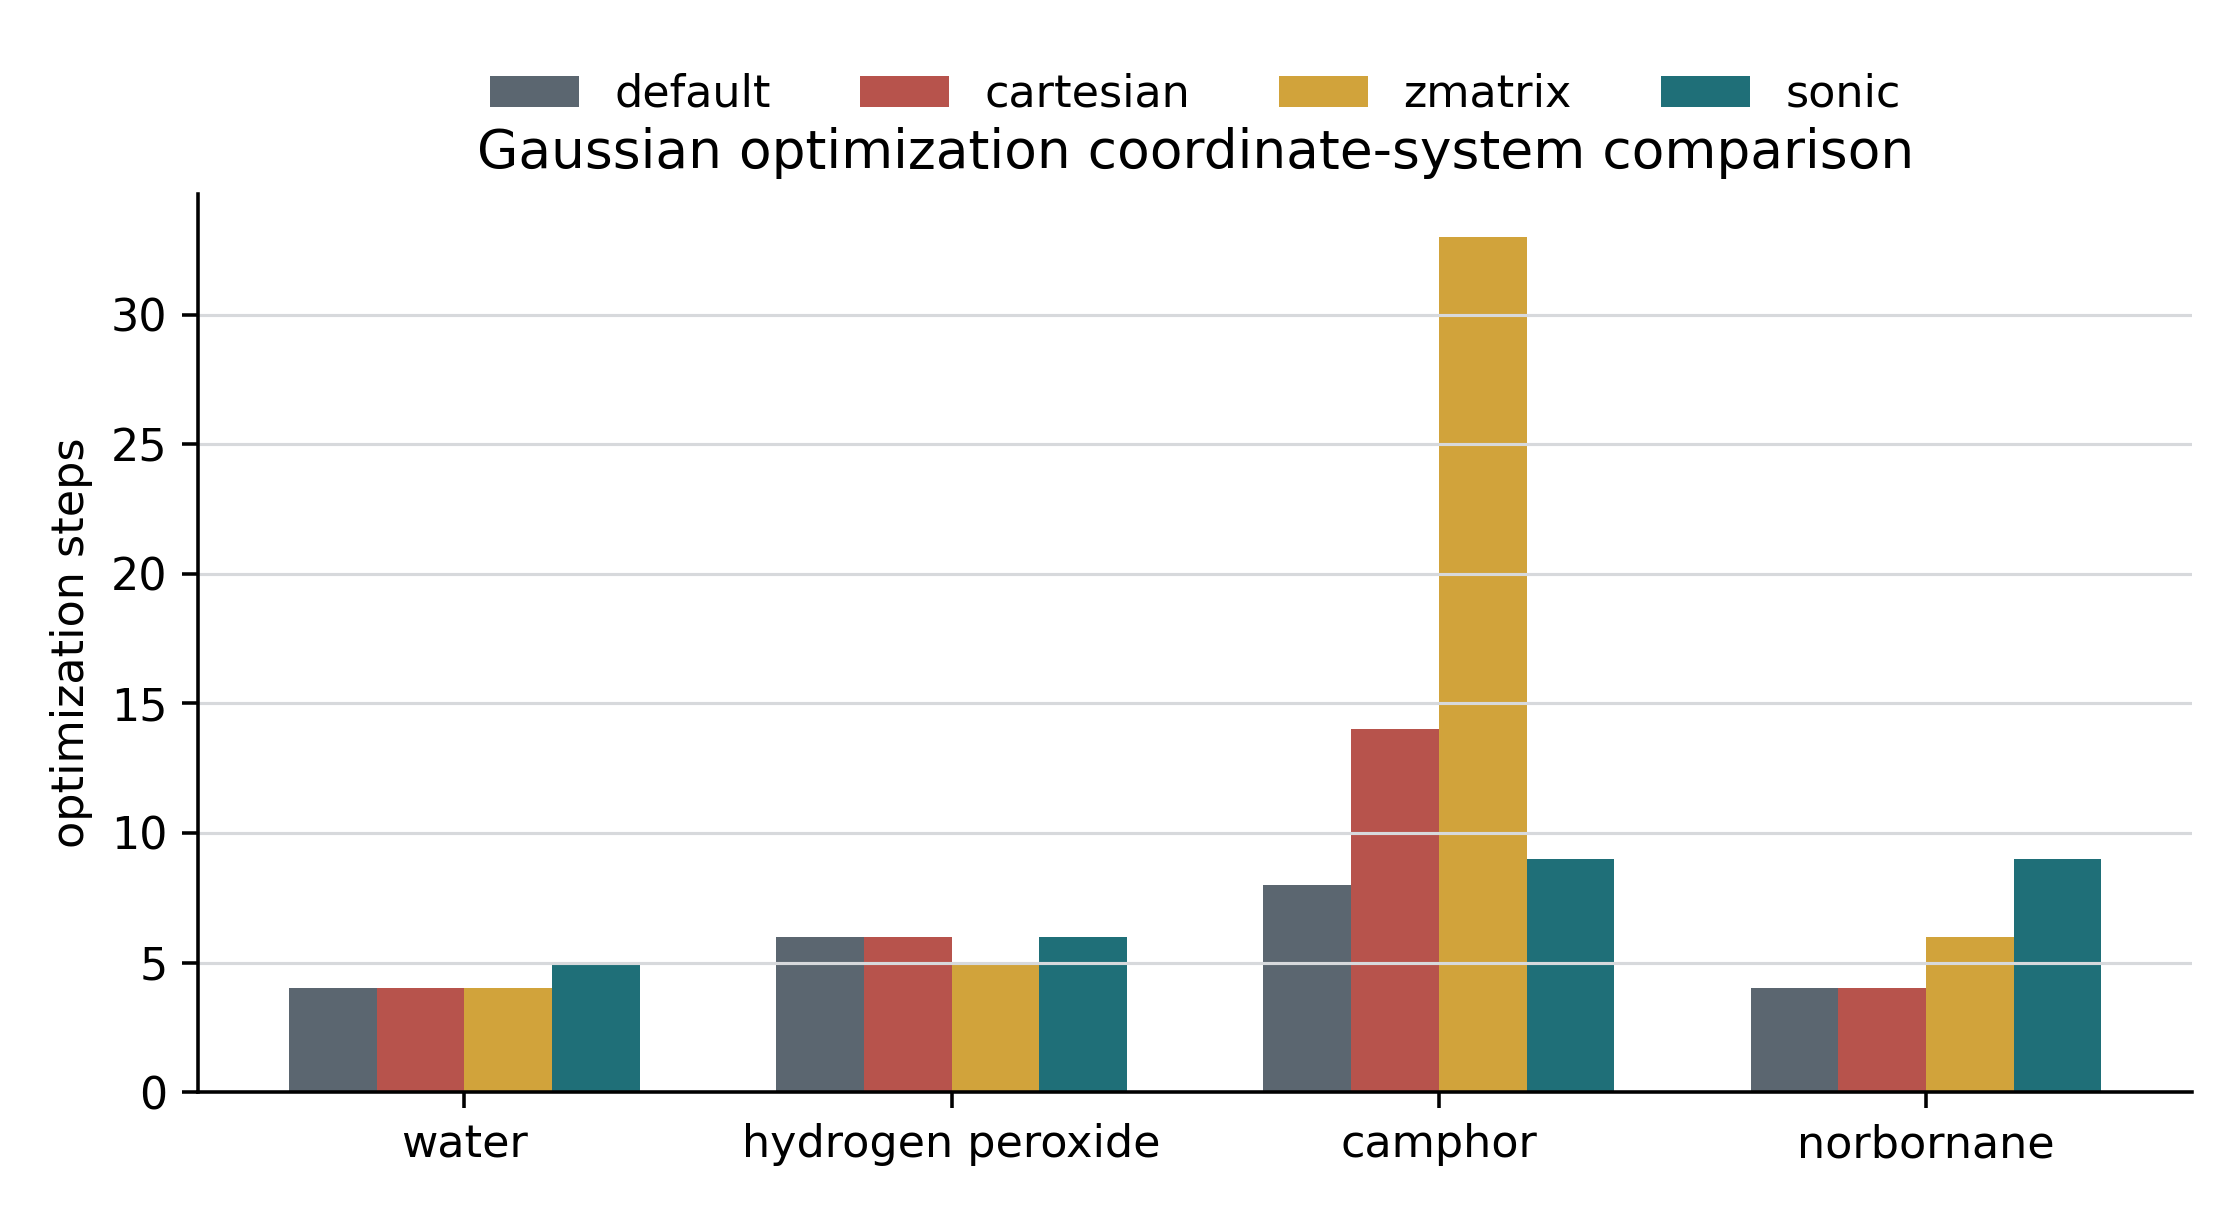
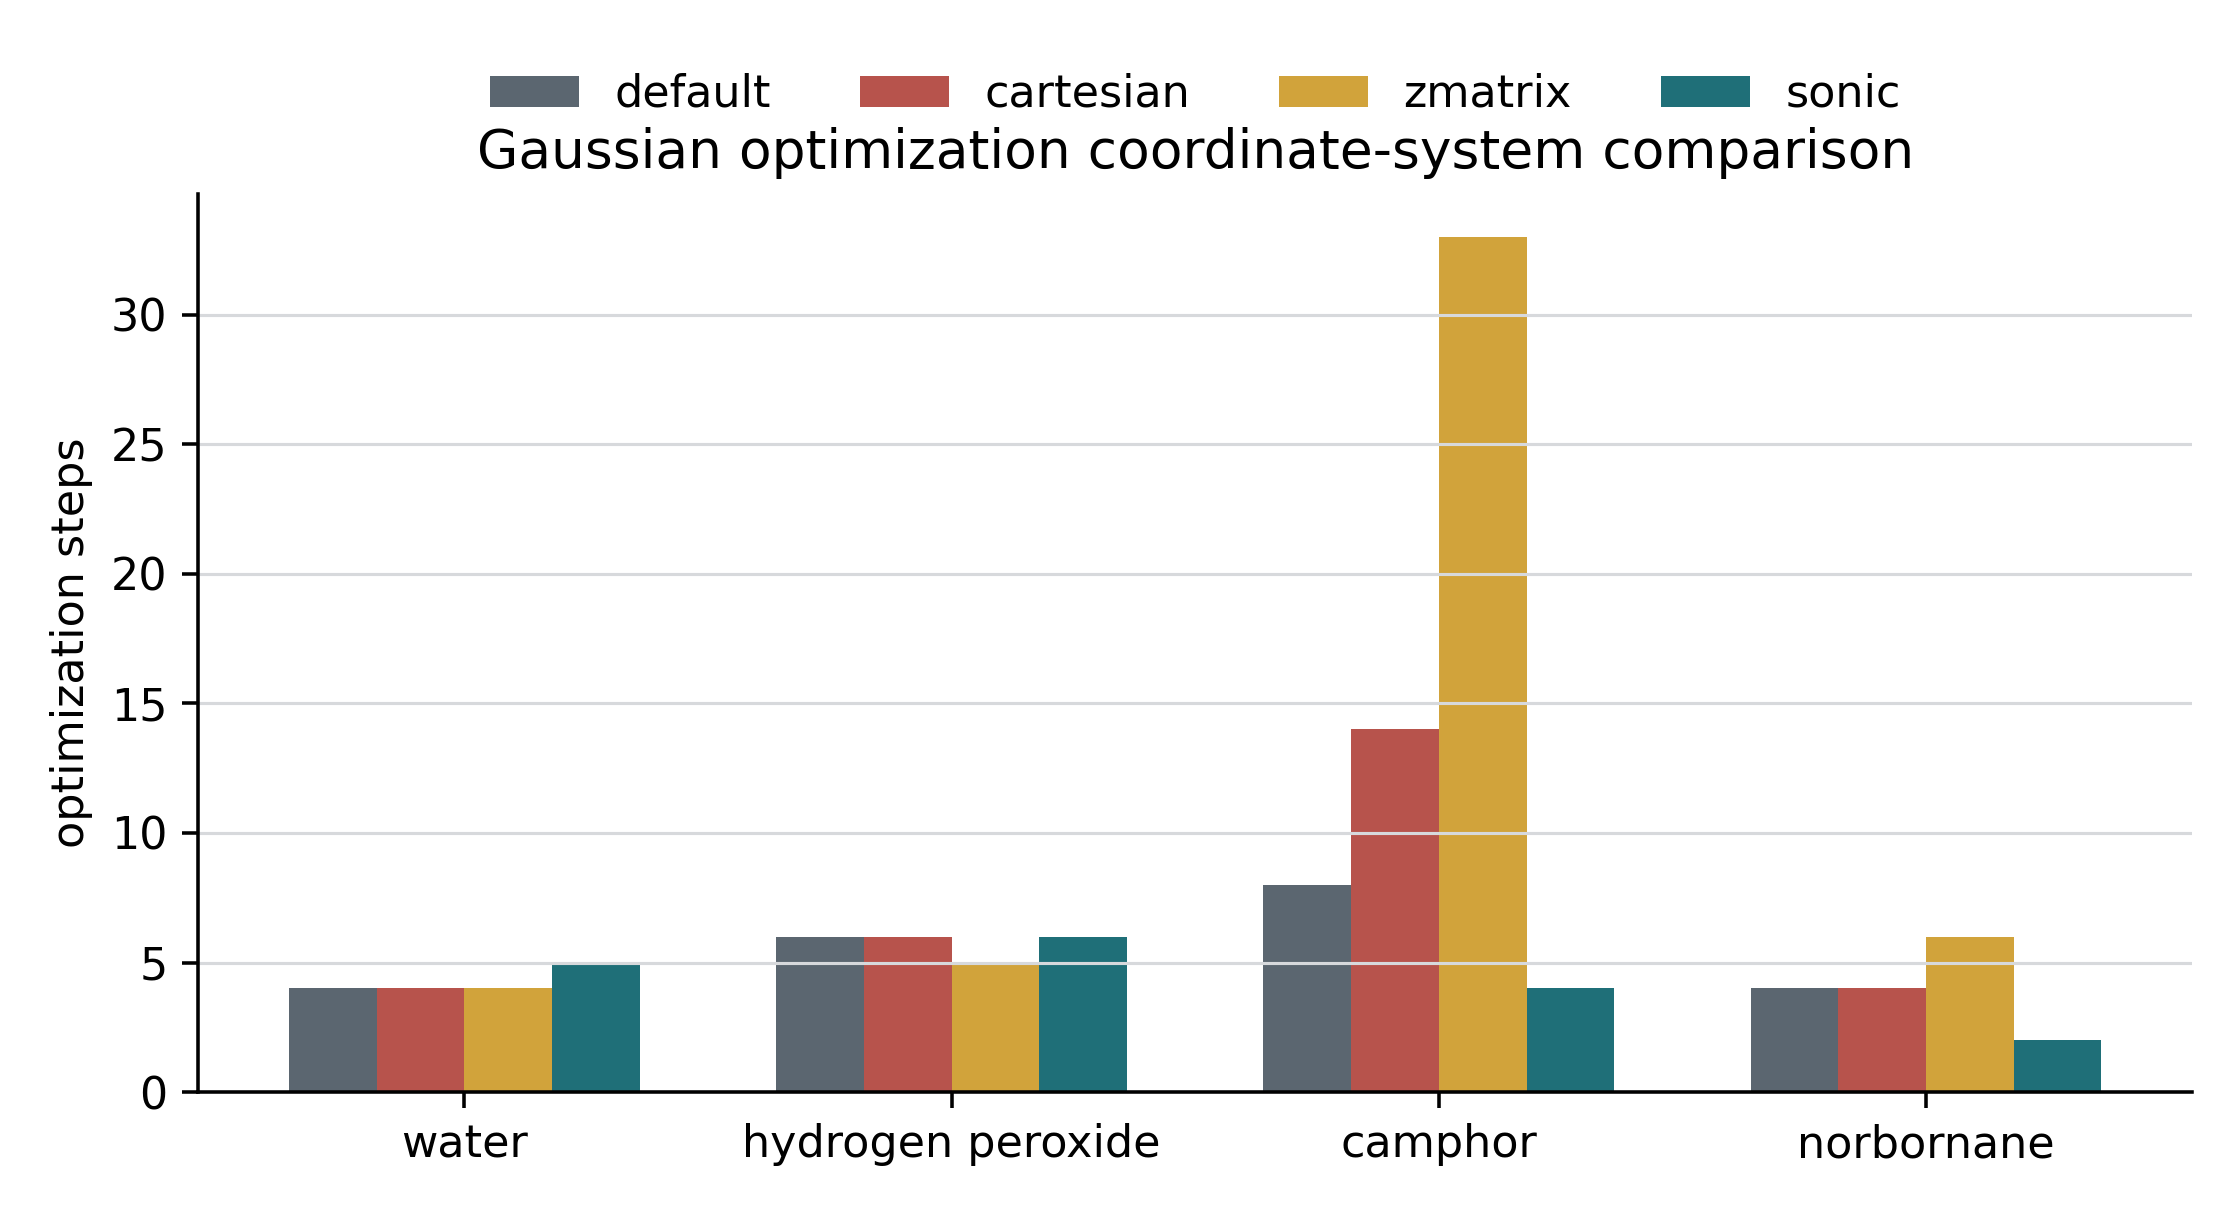
Clarify G16 SONIC compatibility validation

Changed region(s): [[0.875, 0.6875, 0.9375, 0.875], [0.6562, 0.6875, 0.7188, 0.8125]]

diff --git a/main.tex b/main.tex
@@ -9,6 +9,7 @@
 \usetikzlibrary{arrows.meta,calc,positioning}
 
 \providecommand{\href}[2]{#2}
+\providecommand{\url}[1]{#1}
 \providecommand{\keywords}[1]{\par\noindent\textbf{Keywords: }#1\par}
 \makeatletter
 \@ifundefined{tocentry}{%
@@ -1489,18 +1490,22 @@ ring and cage coordinates while remaining small enough for repeated external
 checks.  The native \SONIC\ contract uses signed out-of-plane rows and
 block-local multi-dihedral \(RPck\) puckering rows.  Those rows have been
 validated with a development Gaussian implementation that supports them as
-active variables.  Commercial Gaussian 16 has a documented limitation for
-active generic GICs that combine multiple periodic dihedrals, and it has no
-native \(U\) out-of-plane primitive.  The commercial \texttt{ReadAllGIC}
-export therefore uses a compatibility profile: \(U\) rows are replaced by the
-corresponding Gaussian improper dihedrals, multi-dihedral \SONIC\ rows are kept
-as inactive diagnostics, and all component \(D(\cdots)\) terms are added as
-active redundant periodic coordinates.  After the Gaussian optimization, the
-optimized geometry is evaluated again in the frozen non-redundant \SONIC\
-contract.  The calculations reported here used Gaussian 16 at HF/STO-3G.
+active variables.  Commercial Gaussian 16 has no native \(U\) out-of-plane
+primitive, and the official Gaussian GIC documentation warns that active
+generic coordinates combining multiple periodic dihedrals can behave poorly
+because the periodicity of the component torsions is not applied inside the
+composite expression.\cite{GaussianGICManual}  The commercial
+\texttt{ReadAllGIC} export therefore uses a compatibility profile only when the
+\texttt{g16} option is requested: \(U\) rows are replaced by the corresponding
+Gaussian improper dihedrals, multi-dihedral \SONIC\ rows are not written to the
+Gaussian input, and all component \(D(\cdots)\) terms are added as active
+redundant periodic coordinates.  After the Gaussian optimization, \SMITH\ reads
+the optimized Cartesian structure and evaluates it again in the frozen
+non-redundant \SONIC\ contract.  The calculations reported here used Gaussian
+16 at HF/STO-3G.
 
 The relevant observations are that Gaussian 16 accepts the automatically
-generated coordinate block and reaches a stationary point in three to nine
+generated coordinate block and reaches a stationary point in two to five
 steps for saturated ring and cage systems with different symmetry and rank.
 
 \begin{table}[htbp]
@@ -1516,7 +1521,7 @@ left blank.}
 System & PG & \SONIC\ rank & Gaussian \(NTRed/NRank\) & Steps & \(E_\mathrm{final}\) / \(E_h\) \\
 \midrule
 Cyclohexane & \(D_{3d}\) & 48/48 & -- & 5 & \(-231.482671171\) \\
-Norbornane & \(C_{2v}\) & 51/51 & -- & 9 & \(-268.893823819\) \\
+Norbornane & \(C_{2v}\) & 51/51 & -- & 2 & \(-268.893823525\) \\
 Cubane & \(O_h\) & 42/42 & -- & 3 & \(-303.781399977\) \\
 \bottomrule
 \end{tabular}
@@ -1546,9 +1551,9 @@ that Gaussian can optimize from it using the commercial \texttt{ReadAllGIC}
 parser.  At HF/STO-3G, water and hydrogen peroxide give the same or nearly the
 same iteration counts across the tested coordinate choices.  Norbornane
 converges in four steps with Gaussian redundant internals and Cartesians, six
-steps with a sequential Z matrix and nine steps with the automatically
+steps with a sequential Z matrix and two steps with the automatically
 generated \SONIC\ block.  Camphor converges in eight steps with Gaussian
-redundant internals, 14 Cartesian steps, nine \SONIC\ compatibility steps and 33 steps for a
+redundant internals, 14 Cartesian steps, four \SONIC\ compatibility steps and 33 steps for a
 sequential Z matrix.  Table~\ref{tab:gaussian-coordinate-comparison} gives the
 numerical values plotted in Fig.~\ref{fig:gaussian-coordinate-comparison}, so
 the prose, table and figure refer to the same diagnostic set.  The point of this
@@ -1573,8 +1578,8 @@ System & PG & \SONIC\ rank & Default & Cartesian & Z matrix & \SONIC \\
 \midrule
 Water & \(C_{2v}\) & 3/3 & 4 & 4 & 4 & 5 \\
 Hydrogen peroxide & \(D_{2h}\) & 6/6 & 6 & 6 & 5 & 6 \\
-Norbornane & \(C_{2v}\) & 51/51 & 4 & 4 & 6 & 9 \\
-Camphor & \(C_1\) & 75/75 & 8 & 14 & 33 & 9 \\
+Norbornane & \(C_{2v}\) & 51/51 & 4 & 4 & 6 & 2 \\
+Camphor & \(C_1\) & 75/75 & 8 & 14 & 33 & 4 \\
 \bottomrule
 \end{tabular}
 \end{table}
@@ -1598,12 +1603,16 @@ uses the Fortran/G16 improper-dihedral convention
 \(U(I,J,K,L)\mapsto D(J,I,L,K)\), giving \(D(4,6,8,7)\) for the same local
 non-planarity.  For ring puckering, commercial Gaussian 16 receives the
 individual periodic dihedrals that enter each \(RPck\) row as active redundant
-coordinates, while the original \(RPck\) combinations are written as inactive
-diagnostics.  The optimized structure is then projected back onto the native
-\SONIC\ contract.  This compatibility export is less compact than the native
+coordinates; the original \(RPck\) combinations are retained only in the
+\SMITH\ contract and do not appear in the commercial Gaussian 16 input.  The
+optimized structure is then projected back onto the native \SONIC\ contract.
+This compatibility export is less compact than the native
 form, but it allows standard Gaussian 16 to be used without relying on
 development-only primitives.  The native \SONIC\ contract still defines \(U\),
 multi-dihedral \(RPck\), \(QPck\) and \(\Phi P\).
+In the development Gaussian build, the default internal-coordinate model for
+camphor is sensitive to the automatic \(CX_3\) methyl treatment; adding
+\texttt{Geom=(GIC,NoXY3)} restores the stable standard-coordinate reference.
 The corresponding native-coordinate norbornane check, also run with the same
 total-symmetric active subset, contains 51 generated rows of which 36
 non-totally symmetric rows are marked \texttt{Frozen}; it converges in five

diff --git a/scripts/run_gaussian_coordinate_comparison.py b/scripts/run_gaussian_coordinate_comparison.py
@@ -104,6 +104,7 @@ def prepare_inputs() -> None:
             route=ROUTES["sonic"],
             title=f"{name} SONIC ReadAllGIC optimization",
             link0=(f"%chk={name}_sonic.chk", "%nprocshared=4", "%mem=2GB"),
+            g16_compatibility=True,
         )
 
 
@@ -221,7 +222,7 @@ def summarize_results() -> dict[str, object]:
             }
         )
     return {
-        "method": "Gaussian coordinate-system optimization comparison",
+        "method": "Gaussian 16 coordinate-system optimization comparison",
         "electronic_structure": "Gaussian 16 HF/STO-3G",
         "systems": systems,
     }

diff --git a/supporting_information.tex b/supporting_information.tex
@@ -37,6 +37,9 @@ Gaussian 16 \texttt{ReadAllGIC} input.  The first listing is intentionally not
 the enriched \texttt{xyzin} container written after molecular perception and
 coordinate construction.  It contains only a standard XYZ geometry followed by
 the SMITH directives needed for this Gaussian-compatible export.
+The Gaussian file in the second listing is then produced from that contract
+with the commercial Gaussian 16 compatibility switch, for example
+\texttt{smith gicforge gaussian-input norbornane.xyzin norbornane.gjf --g16}.
 
 \subsection*{SMITH/SONIC input}
 
